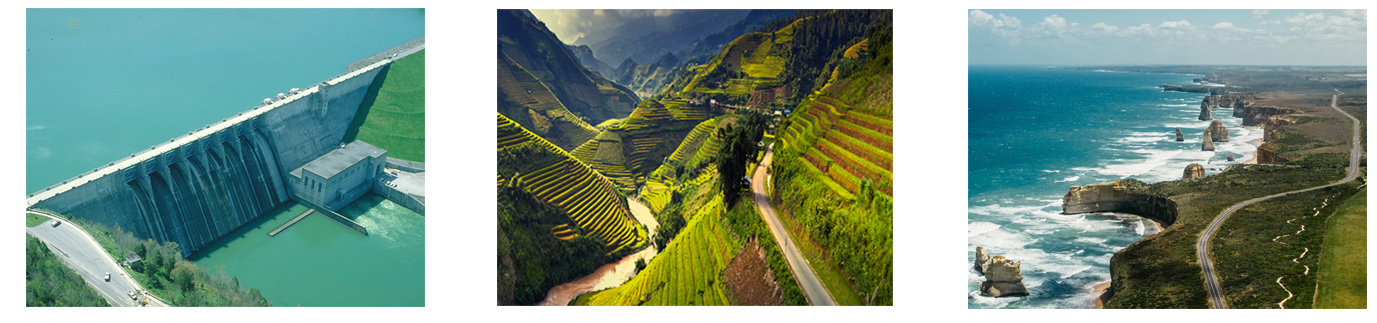
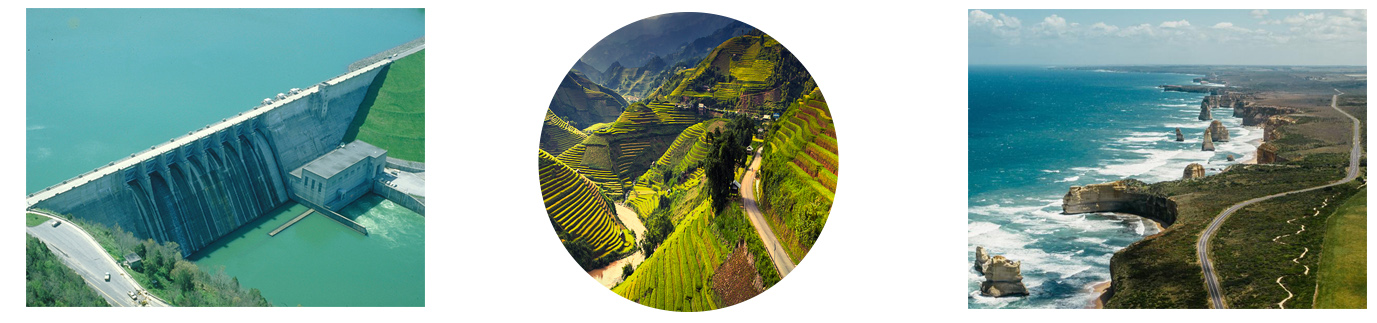
changes

Changed region(s): [[0.3435, 0.031, 0.6558, 0.9598]]

diff --git a/index.html b/index.html
@@ -4,7 +4,7 @@
 	<head>
 		<title>cstine&ampben A3</title>
 		<link href="style.css" rel="stylesheet" type="text/css"/>
-		<link href="https://fonts.googleapis.com/css?family=Merriweather" rel="stylesheet">
+		<link href="https://fonts.googleapis.com/css?family=Lato|Merriweather" rel="stylesheet">
 
 		
 	</head>
@@ -18,16 +18,36 @@
 		</div>
 
 
-		<h1> the issue</h1>
-		<h2> global warming is causing sea levels to rise, threatening Sydney's coastline </h2>
-		<p> Locations under threat include Sydney's Northern Beaches<br> 
-		Climate experts have said rising sea level can displace more than 200 thousand homes</p>
+		<h1> The Issue in Sydney</h1>
+
+		<h2> Global warming is causing sea levels to rise &amp threatening Sydney's coastline </h2>
+
+		<p> Locations under threat of being inundated include Sydney Airport, Byron Bay and Sydney's Northern Beaches </p>
+		<p> Climate experts have said rising sea level can displace more than 200 thousand people </p>
+		
+
+		<div id="container1b">
+		</div>
+
+
+		<h1> Sea Level Visualisation </h1>
+
+		<p> In courtesy of Climate Central, the map below visualises the effect of sea level rise along Sydney's coastline.
+
+			<iframe style="border:0px;scrolling:no;width:100%;height:530px" src="https://choices.climatecentral.org/widget.html?utm_source=Christine%2C%20Student&utm_medium=embed&utm_campaign=SSMC-Map#13/-33.7168/151.3009?compare=temperatures&carbon-end-yr=2100&scenario-a=warming-4&scenario-b=warming-2"></iframe>
 
 
 			<div id="container2">
+				<iframe style="border:0px;scrolling:no;width:100%;height:530px" src="https://choices.climatecentral.org/widget.html?utm_source=Christine%2C%20Student&utm_medium=embed&utm_campaign=SSMC-Map#13/-33.7168/151.3009?compare=temperatures&carbon-end-yr=2100&scenario-a=warming-4&scenario-b=warming-2"></iframe>
+
+
 			</div>
 
-			<h1> the proposal </h1>
+			
+			<h1> Case Study</h1>
+			<p> that will help build a new sort of place for homes on the coast <br> that way everyone will be living and making the most of the coatsline <br> preserves coastlines and prevents further erosion and inundation of Sydney </p>
+
+			<h1> Combat Sea Level Rise </h1>
 			<p> each year the water risees by this much </p>
 			<p> we are proposing this solution </p>
 			<p> enter lots of infographics and images here </p>
@@ -36,5 +56,8 @@
 			</div>
 
 
-			</body>
-			</html>
+			
+
+
+		</body>
+		</html>

diff --git a/style.css b/style.css
@@ -1,14 +1,35 @@
 body {
 	background:white;		
 	text-align: left;
-	font-family: 'Source Sans Pro', sans-serif;
+	font-family: 'Lato', sans-serif;
 	font-size:18px;
-	line-height: 1.5;
+	line-height: 1.2;
 	margin:0 auto;
 	padding: 0;
 	height:100%;
 	width:100%;
 }
+
+body h1 {
+	font-family: 'Merriweather', serif;
+	color: #046C8B;
+	padding-left: 50px;
+}
+
+body h2{
+	font-family: 'Lato', sans-serif;
+	padding-left: 50px;
+}
+
+p {
+	padding-left: 50px;
+}
+
+iframe {
+	margin:0;
+	padding:0;
+}
+
 
 #container1 {
 	width: 99.9%;
@@ -31,27 +52,36 @@ body {
 
 }
 
+#container1b {
+	width: 100%;
+	height: 40%;
+	margin: 0 auto;
+	padding-top: 15%;
+	border: none;
+	background-repeat: no-repeat;
+	background-image: url("Location1.jpg");
+	background-position: 50% 50%;
+	background-size: cover;
+}
+
+
 #container2 {
 	width: 99.9%;
 	height: 30%;
 	margin: 0 auto;
 	padding-top: 10%;
 	border: none;
-	background-repeat: no-repeat;
-	background-image: url("headimage1.jpg");
-	background-position: 50%;
-	background-size: cover;
 
 }
 
 #container3 {
-	width: 99.9%;
-	height: 20%;
+	width: 80%;
+	height: 40%;
 	margin: 0 auto;
-	padding-top: 10%;
+	padding-top: 20%;
 	border: none;
 	background-repeat: no-repeat;
-	background-image: url("example.jpg");
-	background-position: 50%;
-	background-size: cover;
+	background-image: url("test3.png");
+	background-position: 50% 50%;
+	background-size: contain;
 }
